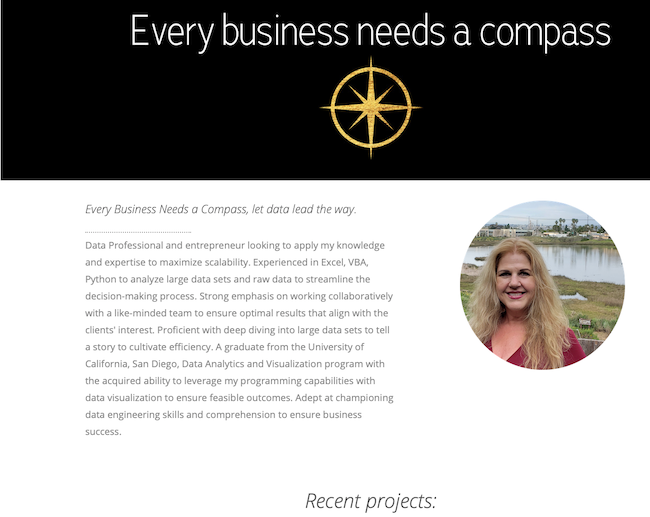
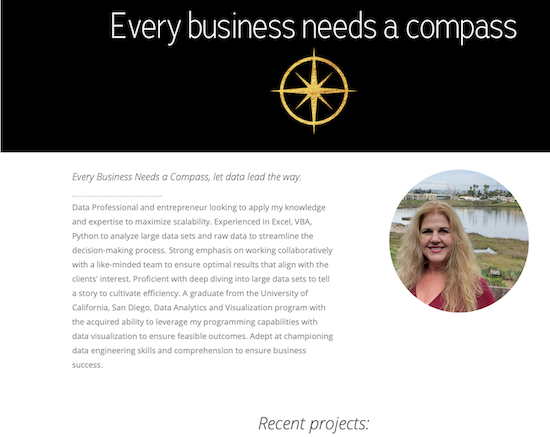
readme

diff --git a/index.html b/index.html
@@ -34,13 +34,13 @@
 	<!-- <div class="container-fluid"> -->
 		<!--jumbotron-->
 		<!--    <div class="jumbotron jumbotron-fluid" style="background: url(images/map.jpg) no-repeat center center fixed; -webkit-background-size: cover; -moz-background-size: cover; -o-background-size: cover; background-size: cover;>-->
-	  <div class="sticky-top" >
+	  <div class="container-fluid sticky-top" >
 		  
 			<!-- <h1 class="display-4">Every business needs a compass</h1> -->
 			<img src="images/banner.png" alt="" class="img-fluid">
 			<p ></p>
 			
-		</div> <!----ending div for jumbotron--->
+	  </div> <!----ending div for jumbotron--->
 
 		<!---- encapsulating entire page in a div-->
  <div class = 'container topLevel'>
